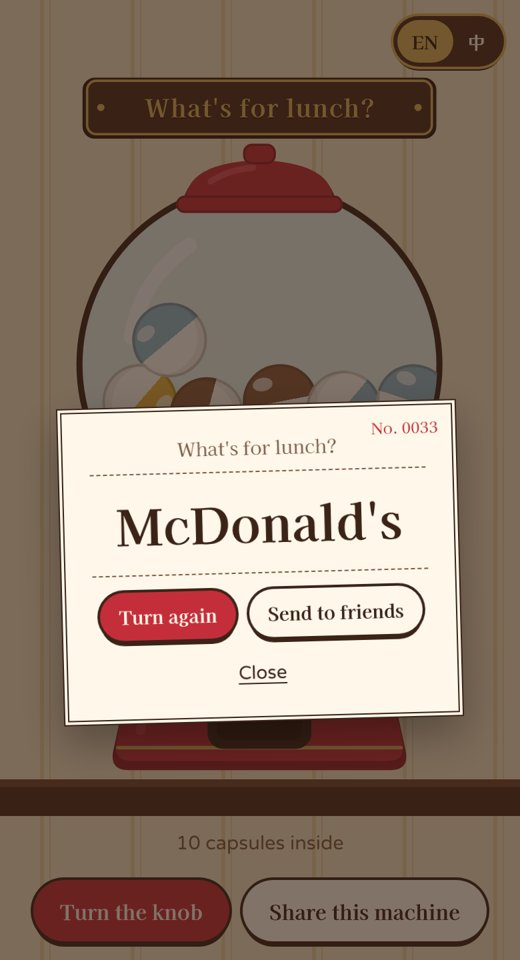
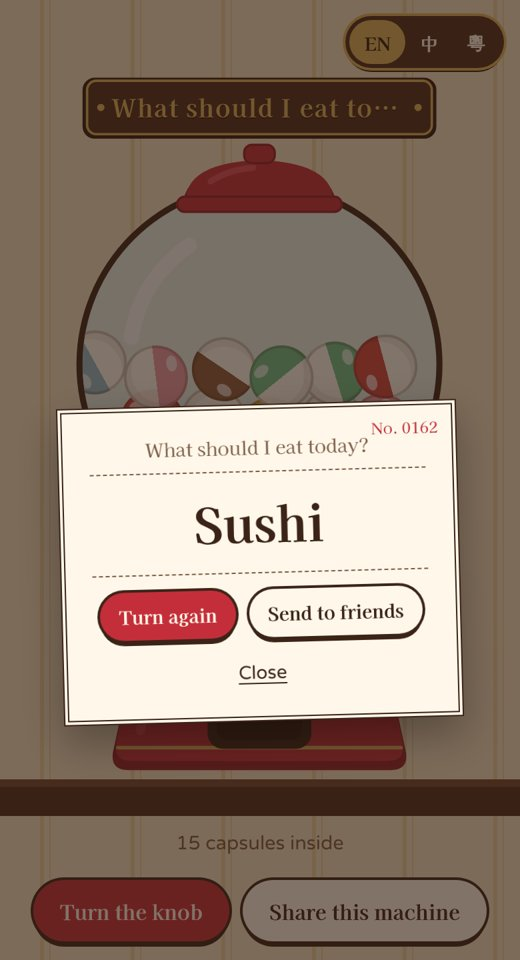
Cantonese, and a menu of ready-made machines

diff --git a/index.html b/index.html
@@ -111,6 +111,16 @@ button { cursor: pointer; }
 .foot { text-align: center; font-size: 12.5px; color: var(--ink-soft); margin-top: 22px; line-height: 1.8; }
 .foot a { color: var(--ink); }
 
+/* the menu: ready-made machines, listed like a café menu with prices */
+.side { display: grid; gap: 30px; }
+.menu-hint { margin: -4px 0 10px; text-align: center; font-size: 13.5px; color: var(--ink-soft); }
+.menu-cat { font-family: var(--deco); font-weight: 700; font-size: 16px; margin: 16px 0 4px; color: var(--cherry); }
+.menu-item { display: flex; align-items: baseline; gap: 8px; width: 100%; border: 0; background: transparent; padding: 7px 4px; border-radius: 8px; text-align: left; font-size: 15px; }
+.menu-item:hover { background: rgba(217,178,91,.16); }
+.menu-item .dots { flex: 1; border-bottom: 2px dotted rgba(59,35,24,.35); transform: translateY(-4px); min-width: 16px; }
+.menu-item .price { font-family: var(--deco); font-weight: 700; font-size: 14px; white-space: nowrap; }
+.menu-item.have .price { color: var(--melon, #367F50); }
+
 /* ---------------- opening a capsule: the order slip ---------------- */
 .reveal { position: fixed; inset: 0; z-index: 20; display: none; place-items: center; background: rgba(46,26,16,.6); padding: 20px; }
 .reveal.show { display: grid; }
@@ -153,6 +163,7 @@ button { cursor: pointer; }
 <div class="lang" role="group" aria-label="Language">
   <button data-lang="en" aria-pressed="true">EN</button>
   <button data-lang="zh" aria-pressed="false">中</button>
+  <button data-lang="yue" aria-pressed="false">粵</button>
 </div>
 
 <main class="app">
@@ -238,6 +249,11 @@ button { cursor: pointer; }
       </div>
       <div class="history" id="history"></div>
     </div>
+    <div class="panel menu">
+      <h2 data-t="menu"></h2>
+      <p class="menu-hint" data-t="menuHint"></p>
+      <div id="menu"></div>
+    </div>
     <p class="foot">
       <button class="btn small ghost" id="soundBtn"></button><br>
       <span data-t="free"></span> · <a href="https://github.com/tllct122/gacha-pick">GitHub</a> · <a href="https://buymeacoffee.com/sirene122">☕ Buy me a coffee</a>
@@ -283,11 +299,8 @@ button { cursor: pointer; }
       bannerAdd: 'Add to my machines', bannerNo: 'Not now', banner: (n, c) => `A friend sent you “${n}” with ${c} capsules.`,
       copied: 'Copied — paste it in your chat', added: (n) => `Added “${n}”`, badLink: "That link doesn't contain a machine",
       confirmDelete: (n) => `Delete “${n}”?`, shareText: (n) => `Turn my “${n}” machine:`, sendText: (n, p) => `${n} → ${p} (picked by Gacha Pick)`,
-      starters: [
-        { name: "What's for lunch?", items: ['Ramen', 'Cha chaan teng', 'Sushi', 'Hot pot', 'Thai', 'Dim sum', 'Korean BBQ', "McDonald's", 'Curry rice', 'Cart noodles'] },
-        { name: 'Who washes the dishes?', items: ['Me', 'You', 'Rock paper scissors', 'Nobody — paper plates'] },
-        { name: 'Weekend plan', items: ['Hike', 'Movie', 'Café hopping', 'Museum', 'Beach', 'Stay home and sleep', 'Karaoke', 'Board game café'] },
-      ],
+      menu: 'Menu', menuHint: 'Ready-made machines. Tap one to put it on the counter.', price: (n) => `${n} capsules`, onCounter: 'on the counter',
+      cats: { eat: 'Eat', drink: 'Drink', play: 'Go out', decide: 'Decide', study: 'Study' },
     },
     zh: {
       app: '扭蛋決定機', turn: '扭一扭', open: '打開扭蛋', share: '分享這部扭蛋機',
@@ -301,32 +314,95 @@ button { cursor: pointer; }
       free: '免費・開源', knob: '扭動旋鈕，扭一粒扭蛋', capsule: '打開你的扭蛋',
       bannerAdd: '加到我的扭蛋機', bannerNo: '不用了', banner: (n, c) => `朋友傳了「${n}」給你，裡面有 ${c} 粒扭蛋。`,
       copied: '已複製，貼到聊天室吧', added: (n) => `已加入「${n}」`, badLink: '這條連結裡沒有扭蛋機',
-      confirmDelete: (n) => `刪除「${n}」？`, shareText: (n) => `來扭我的「${n}」扭蛋機：`, sendText: (n, p) => `${n} → ${p}（扭蛋決定機幫我揀的）`,
-      starters: [
-        { name: '今晚食咩？', items: ['拉麵', '茶餐廳', '壽司', '打邊爐', '泰國菜', '飲茶', '韓燒', '麥當勞', '咖喱飯', '車仔麵'] },
-        { name: '邊個洗碗？', items: ['我', '你', '包剪揼', '用即棄碗碟'] },
-        { name: '週末去邊？', items: ['行山', '睇戲', '咖啡店', '博物館', '去海灘', '留喺屋企瞓覺', '唱K', '桌遊店'] },
-      ],
+      confirmDelete: (n) => `刪除「${n}」？`, shareText: (n) => `來扭我的「${n}」扭蛋機：`, sendText: (n, p) => `${n} → ${p}（扭蛋決定機幫我選的）`,
+      menu: '餐牌', menuHint: '現成的扭蛋機，點一下就放上枱。', price: (n) => `${n} 粒`, onCounter: '已在枱上',
+      cats: { eat: '吃', drink: '喝', play: '玩', decide: '決定', study: '溫習' },
+    },
+    yue: {
+      app: '扭蛋決定機', turn: '扭一扭', open: '開蛋！', share: '分享呢部扭蛋機',
+      machines: '我啲扭蛋機', nameLabel: '招牌寫咩', inside: '入面有咩', insideHint: '（一行一個）',
+      noRepeat: '全部扭晒先會再出返', refill: '補貨', delete: '刪咗呢部機',
+      newMachine: '+ 開新機', newName: '新扭蛋機', untitled: '未改名',
+      empty: '部機係空嘅，入幾樣嘢先啦，一行一個。', allOut: '扭晒喇！補貨就可以再扭過。',
+      left: (n, t) => `仲有 ${n} / ${t} 粒`, count: (n) => `入面有 ${n} 粒扭蛋`,
+      ready: '跌咗粒出嚟喇，㩒一下開蛋', last: '頭先扭到：', soundOn: '聲效：開', soundOff: '聲效：熄',
+      pick: '今日之選', again: '再扭過', send: 'Send 畀朋友', close: '收埋', coin: '免費', stamp: '就咁話',
+      free: '免費・開源', knob: '扭個掣，扭粒扭蛋出嚟', capsule: '開你粒扭蛋',
+      bannerAdd: '加落我度', bannerNo: '唔使喇', banner: (n, c) => `朋友 send 咗「${n}」畀你，入面有 ${c} 粒。`,
+      copied: 'Copy 咗，貼落 group 度啦', added: (n) => `加咗「${n}」`, badLink: '呢條 link 冇扭蛋機喎',
+      confirmDelete: (n) => `真係刪咗「${n}」？`, shareText: (n) => `嚟扭我部「${n}」：`, sendText: (n, p) => `${n} → ${p}（扭蛋決定機幫我揀嘅）`,
+      menu: '餐牌', menuHint: '現成嘅扭蛋機，㩒一下就擺上枱。', price: (n) => `${n} 粒`, onCounter: '擺咗上枱',
+      cats: { eat: '食', drink: '飲', play: '玩', decide: '決定', study: '溫書' },
     },
   };
+
+  /* ---------- the menu: ready-made machines (English / 中文 / 廣東話) ---------- */
+  const L = (en, zh, yue) => ({ en, zh, yue: yue || zh });
+  const LIBRARY = [
+    { id: 'eat-today', cat: 'eat', name: L('What should I eat today?', '今天吃甚麼？', '今日 jap 咩好？'),
+      items: L(['Cha chaan teng', 'Ramen', 'Sushi', 'Cart noodles', 'Wonton noodles', 'Roast meat rice', 'Rice noodles', 'Burger', 'Thai', 'Korean BBQ', 'Pho', 'Curry rice', 'Pasta', 'Malatang', 'Hot pot'],
+        ['茶餐廳', '拉麵', '壽司', '車仔麵', '雲吞麵', '燒味飯', '米線', '漢堡包', '泰國菜', '韓燒', '越南粉', '咖喱飯', '意粉', '麻辣燙', '打邊爐']) },
+    { id: 'late-night', cat: 'eat', name: L('Late-night snack', '宵夜吃甚麼？', '宵夜食咩？'),
+      items: L(['Sweet soup', 'Fish balls & siu mai', 'Claypot rice', 'Congee', 'Instant noodles', 'Fried chicken', 'Skewers', 'Egg waffle', 'Convenience store run'],
+        ['糖水', '魚蛋燒賣', '煲仔飯', '粥', '即食麵', '炸雞', '串燒', '雞蛋仔', '去便利店'], ['糖水', '魚蛋燒賣', '煲仔飯', '粥', '公仔麵', '炸雞', '串燒', '雞蛋仔', '去 7 仔']) },
+    { id: 'dessert', cat: 'eat', name: L('Which dessert?', '吃甚麼甜品？', '食咩甜品？'),
+      items: L(['Mango pomelo sago', 'Tofu pudding', 'Mango pancake', 'Waffle', 'Ice cream', 'Egg tart', 'French toast', 'Red bean ice', 'Snowflake ice'],
+        ['楊枝甘露', '豆腐花', '芒果班戟', '窩夫', '雪糕', '蛋撻', '西多士', '紅豆冰', '雪花冰']) },
+    { id: 'bubble-tea', cat: 'drink', name: L('Which bubble tea?', '喝甚麼手搖飲品？', '飲咩手搖？'),
+      items: L(['Bubble milk tea', 'Brown sugar boba milk', 'Cheese foam green tea', 'Lemon green tea', 'Mango green tea', 'Passion fruit green tea', 'Oolong milk tea', 'Yakult green tea', 'Pudding milk tea', 'Winter melon lemon', 'Peach oolong', 'Grapefruit green tea'],
+        ['珍珠奶茶', '黑糖珍珠鮮奶', '芝士奶蓋綠茶', '檸檬綠茶', '芒果綠茶', '百香果綠茶', '烏龍奶茶', '多多綠茶', '布丁奶茶', '冬瓜檸檬', '蜜桃烏龍', '西柚綠茶']) },
+    { id: 'sugar', cat: 'drink', name: L('How sweet?', '甜度？', '幾甜好？'),
+      items: L(['Normal sugar', 'Less sugar', 'Half sugar', 'A little sugar', 'No sugar'], ['正常甜', '少甜', '半甜', '微甜', '無糖'], ['正常甜', '少甜', '半糖', '微甜', '走甜']) },
+    { id: 'ice', cat: 'drink', name: L('How much ice?', '冰量？', '幾多冰？'),
+      items: L(['Normal ice', 'Less ice', 'No ice', 'Hot'], ['正常冰', '少冰', '去冰', '熱'], ['正常冰', '少冰', '走冰', '熱飲']) },
+    { id: 'coffee', cat: 'drink', name: L('Coffee order', '點甚麼咖啡？', '飲咩咖啡？'),
+      items: L(['Latte', 'Americano', 'Cappuccino', 'Flat white', 'Mocha', 'Matcha latte', 'Iced lemon tea', 'Yuenyeung'],
+        ['拿鐵', '美式', '卡布奇諾', '澳白', '摩卡', '抹茶拿鐵', '凍檸茶', '鴛鴦'], ['Latte', '美式', 'Cappuccino', '澳白', 'Mocha', '抹茶 latte', '凍檸茶', '鴛鴦']) },
+    { id: 'weekend', cat: 'play', name: L('Weekend plan', '週末做甚麼？', '週末去邊？'),
+      items: L(['Hike', 'Movie', 'Café hopping', 'Museum', 'Beach', 'Sleep in', 'Karaoke', 'Board game café', 'Shopping', 'Photo booth'],
+        ['行山', '看電影', '去咖啡店', '博物館', '海灘', '在家睡覺', '唱K', '桌遊店', '逛街', '拍貼紙相'], ['行山', '睇戲', '去 cafe', '博物館', '去海灘', '喺屋企瞓覺', '唱K', 'Board game', '行街', '影大頭貼']) },
+    { id: 'who-pays', cat: 'decide', name: L('Who pays?', '誰請客？', '邊個請？'),
+      items: L(['Me', 'You', 'Them', 'Split the bill', 'Rock paper scissors'], ['我', '你', '他', '夾錢', '猜拳決定'], ['我', '你', '佢', 'AA', '包剪揼']) },
+    { id: 'dishes', cat: 'decide', name: L('Who washes the dishes?', '誰洗碗？', '邊個洗碗？'),
+      items: L(['Me', 'You', 'Rock paper scissors', 'Nobody — paper plates'], ['我', '你', '猜拳決定', '用即棄碗碟'], ['我', '你', '包剪揼', '用即棄碗碟']) },
+    { id: 'yes-no', cat: 'decide', name: L('Yes or no?', '做還是不做？', '做定唔做？'),
+      items: L(['Yes!', 'No', 'Sleep on it', 'Ask a friend'], ['做！', '不要做', '再想想', '問朋友'], ['做！', '唔好做', '再諗下', '問下朋友']) },
+    { id: 'study-first', cat: 'study', name: L('What to study first?', '先溫習甚麼？', '溫咩先？'),
+      items: L(['Assignment', 'Lecture notes', 'Past paper', 'Vocabulary', 'Report', '15-minute break'],
+        ['做功課', '溫筆記', '做歷屆試題', '背生字', '寫報告', '休息十五分鐘'], ['做 assignment', '溫 notes', '做 past paper', '背生字', '寫 report', '抖 15 分鐘']) },
+    { id: 'break', cat: 'study', name: L('Study break', '小休做甚麼？', '小休做咩？'),
+      items: L(['Stretch', 'Drink water', 'Short walk', 'Snack', '10-minute nap', 'One song'], ['伸展', '喝水', '走一圈', '吃零食', '小睡十分鐘', '聽一首歌'], ['拉下筋', '飲啖水', '行個圈', '食零食', '瞓 10 分鐘', '聽首歌']) },
+  ];
+  const CATS = ['eat', 'drink', 'play', 'decide', 'study'];
+  const STARTERS = ['eat-today', 'bubble-tea', 'who-pays'];
 
   const uid = () => Math.random().toString(36).slice(2, 9);
   const rand = (n) => { const a = new Uint32Array(1); crypto.getRandomValues(a); return a[0] % n; };
 
   /* ---------- saving (per browser) ---------- */
   const KEY = 'gacha-pick-v1';
-  const guessLang = () => (/^zh/i.test(navigator.language || '') ? 'zh' : 'en');
+  const guessLang = () => { const l = navigator.language || ''; return /^(zh-(HK|MO)|yue)/i.test(l) ? 'yue' : /^zh/i.test(l) ? 'zh' : 'en'; };
   const blank = (name, items, color) => ({ id: uid(), name, items, color, noRepeat: false, out: [], history: [] });
-  function starters(lang) { return T[lang].starters.map((s, i) => blank(s.name, s.items.slice(), COLORS[i])); }
+  /** A machine from the menu; it follows the language until you edit it. */
+  function fromMenu(id, lang, color) {
+    const e = LIBRARY.find((x) => x.id === id);
+    return { ...blank(e.name[lang], e.items[lang].slice(), color), libId: id, edited: false };
+  }
+  function relocalise() {
+    for (const l of data.lists) {
+      const e = l.libId && !l.edited && LIBRARY.find((x) => x.id === l.libId);
+      if (e) { l.name = e.name[data.lang]; l.items = e.items[data.lang].slice(); l.out = []; }
+    }
+  }
+  function starters(lang) { return STARTERS.map((id, i) => fromMenu(id, lang, COLORS[i])); }
   function load() {
     try { const d = JSON.parse(localStorage.getItem(KEY)); if (d && Array.isArray(d.lists) && d.lists.length) return { lang: guessLang(), sound: true, ...d }; } catch (e) {}
     const lang = guessLang(), lists = starters(lang);
-    return { lists, current: lists[0].id, sound: true, lang, untouched: true };
+    return { lists, current: lists[0].id, sound: true, lang };
   }
   let data = load();
   const t = () => T[data.lang] || T.en;
   const save = () => { try { localStorage.setItem(KEY, JSON.stringify(data)); } catch (e) {} };
-  const touched = () => { if (data.untouched) { data.untouched = false; } };
   const cur = () => data.lists.find((l) => l.id === data.current) || data.lists[0];
   const itemsOf = (l) => l.items.map((s) => s.trim()).filter(Boolean);
   function pool(l) {
@@ -417,7 +493,16 @@ button { cursor: pointer; }
     else status(w.count(total));
   }
   function status(s) { $('#status').textContent = s; }
-  function renderAll() { renderWords(); renderLists(); renderEditor(); renderDome(); }
+  function renderMenu() {
+    const w = t();
+    $('#menu').innerHTML = CATS.map((c) => `<div class="menu-cat">${w.cats[c]}</div>` +
+      LIBRARY.filter((e) => e.cat === c).map((e) => {
+        const have = data.lists.some((l) => l.libId === e.id);
+        return `<button class="menu-item ${have ? 'have' : ''}" data-lib="${e.id}"><span>${esc(e.name[data.lang])}</span><span class="dots"></span>` +
+          `<span class="price">${have ? w.onCounter : w.price(e.items[data.lang].length)}</span></button>`;
+      }).join('')).join('');
+  }
+  function renderAll() { renderWords(); renderLists(); renderEditor(); renderDome(); renderMenu(); }
 
   /* ---------- turning the knob ---------- */
   let busy = false, picked = null, pickedColor = COLORS[0], orderNo = 1 + rand(400);
@@ -463,7 +548,6 @@ button { cursor: pointer; }
     if (!picked) return;
     const w = t(), l = cur();
     $('#chuteCap').classList.remove('ready');
-    touched();
     l.history.unshift(picked); l.history = l.history.slice(0, 20); save();
     const r = $('#reveal');
     r.querySelector('.half.top').style.background = pickedColor;
@@ -522,14 +606,21 @@ button { cursor: pointer; }
   document.querySelector('.lang').addEventListener('click', (e) => {
     const b = e.target.closest('[data-lang]'); if (!b || b.dataset.lang === data.lang) return;
     data.lang = b.dataset.lang;
-    // the starter machines follow the language until you change them
-    if (data.untouched) { data.lists = starters(data.lang); data.current = data.lists[0].id; }
+    relocalise();   // menu machines you haven't edited follow the language
     save(); renderAll(); showBanner();
   });
 
+  $('#menu').addEventListener('click', (e) => {
+    const b = e.target.closest('[data-lib]'); if (!b || busy) return;
+    let l = data.lists.find((x) => x.libId === b.dataset.lib);
+    if (!l) { l = fromMenu(b.dataset.lib, data.lang, COLORS[data.lists.length % COLORS.length]); data.lists.push(l); toast(t().added(l.name)); }
+    data.current = l.id; save();
+    $('#chuteCap').classList.remove('ready');
+    renderAll();
+    $('#machine').scrollIntoView({ behavior: reduce ? 'auto' : 'smooth', block: 'center' });
+  });
   $('#lists').addEventListener('click', (e) => {
     if (e.target.closest('#addList')) {
-      touched();
       const l = blank(t().newName, [], COLORS[data.lists.length % COLORS.length]);
       data.lists.push(l); data.current = l.id; save(); renderAll();
       $('#name').select(); return;
@@ -539,29 +630,26 @@ button { cursor: pointer; }
     $('#chuteCap').classList.remove('ready');
     renderAll();
   });
-  $('#name').oninput = (e) => { touched(); cur().name = e.target.value; save(); renderLists(); renderMeta(); };
+  $('#name').oninput = (e) => { cur().name = e.target.value; cur().edited = true; save(); renderLists(); renderMeta(); };
   let domeTimer;
   $('#items').oninput = (e) => {
-    touched();
     const l = cur();
-    l.items = e.target.value.split('\n');
+    l.items = e.target.value.split('\n'); l.edited = true;
     const still = new Set(itemsOf(l)); l.out = l.out.filter((x) => still.has(x));
     save(); renderMeta(); clearTimeout(domeTimer); domeTimer = setTimeout(renderDome, 250);
   };
   $('#items').onblur = () => { const l = cur(); l.items = itemsOf(l); save(); };
-  $('#noRepeat').onchange = (e) => { touched(); const l = cur(); l.noRepeat = e.target.checked; l.out = []; save(); renderMeta(); renderDome(); };
+  $('#noRepeat').onchange = (e) => { const l = cur(); l.noRepeat = e.target.checked; l.out = []; save(); renderMeta(); renderDome(); };
   $('#refill').onclick = () => { cur().out = []; save(); renderMeta(); renderDome(); thunk(); };
   $('#deleteList').onclick = () => {
     const l = cur();
     if (!confirm(t().confirmDelete(l.name || t().untitled))) return;
-    touched();
     data.lists = data.lists.filter((x) => x.id !== l.id);
     if (!data.lists.length) data.lists.push(blank(t().newName, [], COLORS[0]));
     data.current = data.lists[0].id; save(); renderAll();
   };
   $('#soundBtn').onclick = () => { data.sound = !data.sound; save(); renderWords(); };
   $('#bannerAdd').onclick = () => {
-    touched();
     const l = blank(incoming.name, incoming.items, COLORS[data.lists.length % COLORS.length]);
     data.lists.push(l); data.current = l.id; save(); renderAll();
     $('#banner').classList.remove('show'); toast(t().added(l.name)); incoming = null;

diff --git a/sw.js b/sw.js
@@ -1,5 +1,5 @@
 // Gacha Pick — works offline after the first visit.
-const CACHE = 'gacha-pick-v2';
+const CACHE = 'gacha-pick-v3';
 const FILES = ['./', 'index.html', 'manifest.webmanifest', 'icons/icon-192.png', 'icons/icon-512.png'];
 self.addEventListener('install', (e) => e.waitUntil(caches.open(CACHE).then((c) => c.addAll(FILES)).then(() => self.skipWaiting())));
 self.addEventListener('activate', (e) => e.waitUntil(caches.keys().then((ks) => Promise.all(ks.filter((k) => k !== CACHE).map((k) => caches.delete(k)))).then(() => self.clients.claim())));

diff --git a/README.md b/README.md
@@ -11,6 +11,7 @@ A retro capsule machine, styled like a Showa-era Japanese café, that decides fo
 <p>
   <img src="docs/machine.jpg" width="260" alt="The machine">
   <img src="docs/answer.jpg" width="260" alt="An opened capsule">
+  <img src="docs/menu.jpg" width="260" alt="The menu of ready-made machines">
 </p>
 
 ## Features
@@ -19,7 +20,8 @@ A retro capsule machine, styled like a Showa-era Japanese café, that decides fo
 - ✏ **Your own machines**: make as many as you like, like "What's for lunch?" or "Who pays?". Type one option per line, in any language
 - 🙅 **No repeats**: turn this on and nothing comes out twice until the machine is empty. Good for taking turns
 - 🔗 **Share a machine**: send a link and your friends can turn the same machine on their phone, or add it to their own
-- 🌏 **English / 中文**: switch with the button in the corner
+- 📋 **A menu of ready-made machines**: what to eat, late-night snacks, bubble tea, sugar and ice level, coffee, weekend plans, who pays, what to study first, and more. Tap one to put it on the counter
+- 🌏 **English / 中文 / 廣東話**: switch with the button in the corner
 - 📲 **Works like an app**: add it to your home screen, and it works offline. No account, no ads, and everything stays on your phone
 
 ## Use it
@@ -27,7 +29,8 @@ A retro capsule machine, styled like a Showa-era Japanese café, that decides fo
 | To | Do this |
 |---|---|
 | Get an answer | Tap **Turn the knob** (or the knob itself), then tap the capsule |
-| Switch language | **EN / 中** in the top-right corner |
+| Use a ready-made machine | Pick one from the **Menu** |
+| Switch language | **EN / 中 / 粵** in the top-right corner |
 | Make your own machine | **+ New machine**, give it a name, and type what's inside, one per line |
 | Send to a group chat | **Share this machine**, or **Send to friends** after opening a capsule |
 | Put it on your home screen | iPhone: Share → **Add to Home Screen**. Android: ⋮ → **Install app** |

diff --git a/README.zh-Hans.md b/README.zh-Hans.md
@@ -11,6 +11,7 @@
 <p>
   <img src="docs/machine-zh.jpg" width="260" alt="扭蛋机">
   <img src="docs/answer-zh.jpg" width="260" alt="打开的扭蛋">
+  <img src="docs/menu.jpg" width="260" alt="现成扭蛋机菜单">
 </p>
 
 ## 功能
@@ -19,7 +20,8 @@
 - ✏ **自己的扭蛋机**：想开几台都可以，例如“今晚吃什么？”、“谁请客？”。每行一个选项，任何语言都可以
 - 🙅 **不重复**：开启后，扭完所有扭蛋之前不会出现重复的答案，适合轮流
 - 🔗 **分享扭蛋机**：发一条链接，朋友就可以在手机扭同一台机，或添加到自己那里
-- 🌏 **中文／English**：右上角一键切换
+- 📋 **现成扭蛋机菜单**：今天吃什么、宵夜、甜品、手摇饮品、甜度冰量、咖啡、周末去哪、谁请客、先复习什么等等，点一下就放上台
+- 🌏 **中文／粤语／English**：右上角一键切换
 - 📲 **像 app 一样用**：添加到主屏幕，没网络也能用。不用登录、没有广告，所有数据只留在你的手机
 
 ## 使用方法
@@ -27,6 +29,8 @@
 | 想要 | 做法 |
 |---|---|
 | 得到答案 | 点 **扭一扭**（或直接点旋钮），然后点扭蛋 |
+| 用现成扭蛋机 | 在 **餐牌** 选一个 |
+| 切换语言 | 右上角 **EN / 中 / 粵** |
 | 开自己的扭蛋机 | **+ 新扭蛋機**，改名，再每行输入一个选项 |
 | 发到群聊 | **分享這部扭蛋機**，或打开扭蛋后点 **傳給朋友** |
 | 添加到主屏幕 | iPhone：分享 → **添加到主屏幕**。Android：⋮ → **安装应用** |

diff --git a/README.zh-Hant.md b/README.zh-Hant.md
@@ -11,6 +11,7 @@
 <p>
   <img src="docs/machine-zh.jpg" width="260" alt="扭蛋機">
   <img src="docs/answer-zh.jpg" width="260" alt="打開的扭蛋">
+  <img src="docs/menu.jpg" width="260" alt="現成扭蛋機餐牌">
 </p>
 
 ## 功能
@@ -19,7 +20,8 @@
 - ✏ **自己的扭蛋機**：想開幾部都可以，例如「今晚食咩？」、「邊個請？」。每行一個選項，任何語言都可以
 - 🙅 **不重複**：開啟後，扭完所有扭蛋之前不會出現重複的答案，適合輪流
 - 🔗 **分享扭蛋機**：傳一條連結，朋友就可以在手機扭同一部機，或加到自己那裡
-- 🌏 **中文／English**：右上角一鍵切換
+- 📋 **現成扭蛋機餐牌**：今日食甚麼、宵夜、甜品、手搖飲品、甜度冰量、咖啡、週末去哪、誰請客、先溫甚麼等等，點一下就放上枱
+- 🌏 **中文／廣東話／English**：右上角一鍵切換
 - 📲 **像 app 一樣用**：加到主畫面，沒網絡也可以用。不用登入、沒有廣告，所有資料只留在你的手機
 
 ## 使用方法
@@ -27,6 +29,8 @@
 | 想要 | 做法 |
 |---|---|
 | 得到答案 | 點 **扭一扭**（或直接點旋鈕），然後點扭蛋 |
+| 用現成扭蛋機 | 在 **餐牌** 選一個 |
+| 切換語言 | 右上角 **EN / 中 / 粵** |
 | 開自己的扭蛋機 | **+ 新扭蛋機**，改名，再每行輸入一個選項 |
 | 傳到群組 | **分享這部扭蛋機**，或打開扭蛋後點 **傳給朋友** |
 | 加到主畫面 | iPhone：分享 → **加入主畫面**。Android：⋮ → **安裝應用程式** |
